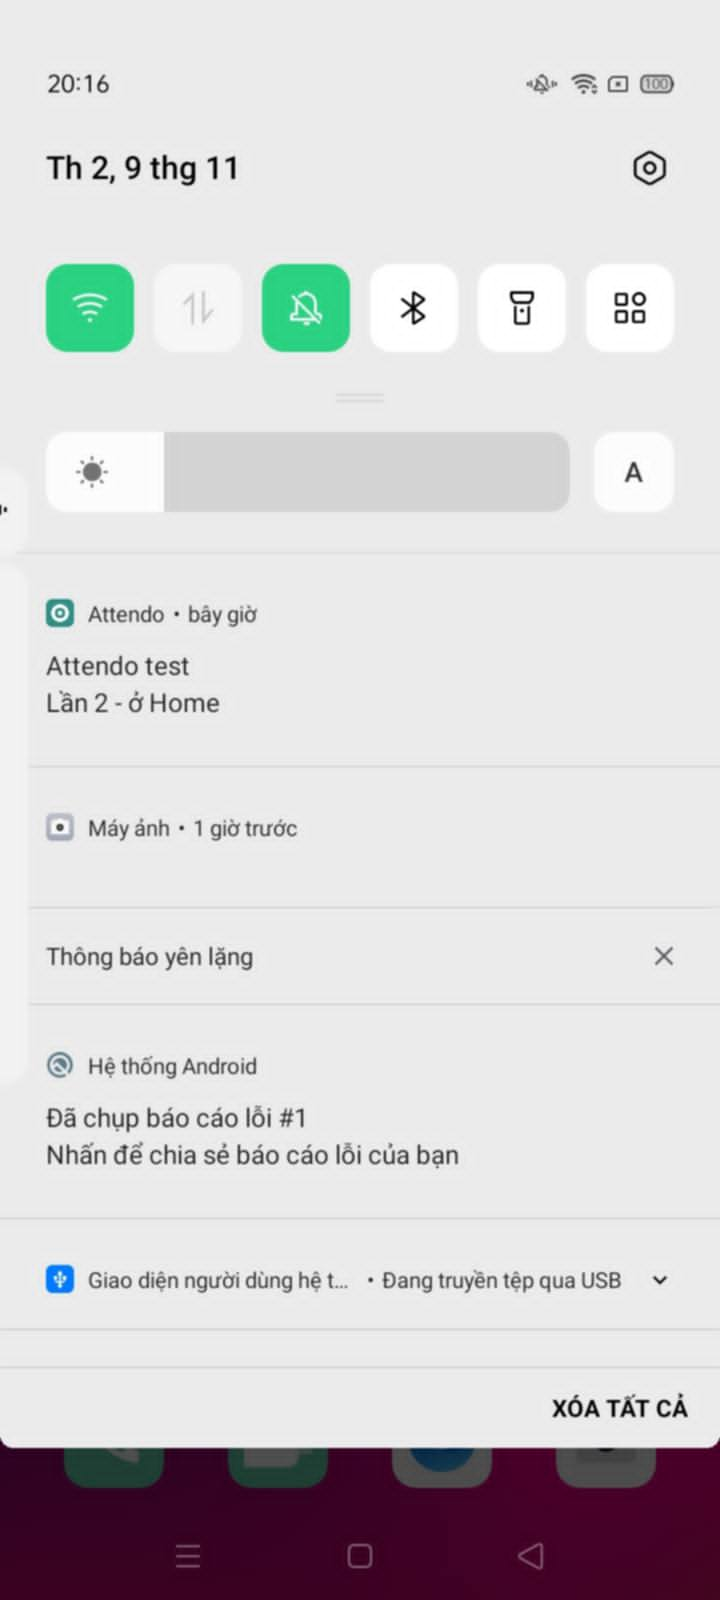
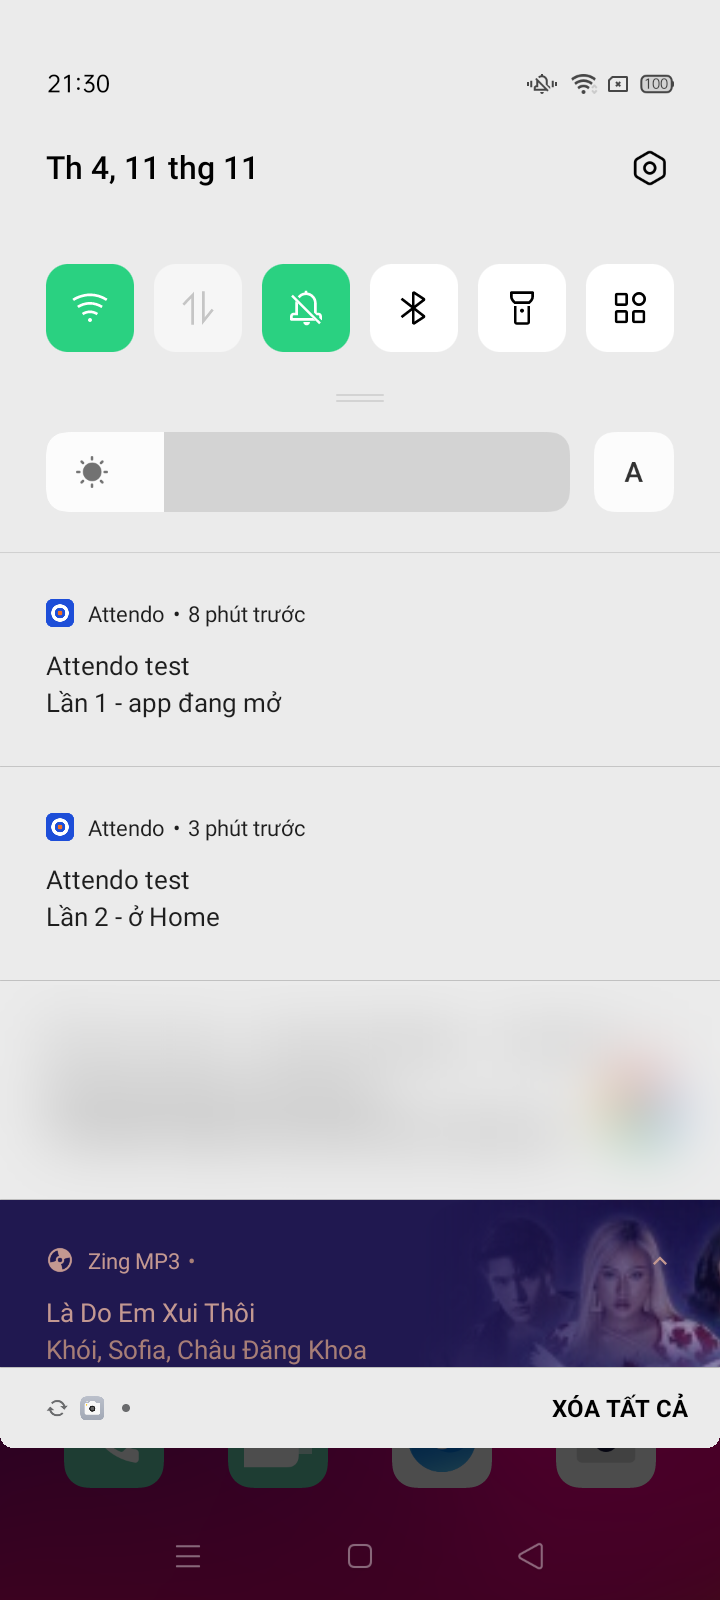
slides: use the recaptured cobalt FCM shots
Claude-Session: https://claude.ai/code/session_01LiS5XmjWDKcUN5uBfPDZk5

diff --git a/slides/src/proofs.js b/slides/src/proofs.js
@@ -14,7 +14,7 @@
     t1: { k: 'Test tay · Firebase thật', t: 'T1 điểm danh trọn một buổi', d: 'thien chạy 09/11 19:00 đến 19:25: TV, quét QR bằng iPhone, extension điền FAP giả 25/35 khớp app và chặn sai ngày.', img: 'assets/img/ev/ext-02.png', href: blob('evidence/extension/README.md') },
     extFill: { k: 'Test tay · Firebase thật', t: 'Extension điền 25 có mặt, 10 vắng', d: 'Bản nháp khớp Môn, Lớp, Ngày, Slot, Phòng; trang FAP giả 25 present · 10 absent.', img: 'assets/img/ev/ext-02.png', href: blob('evidence/extension/02-dien-25-co-mat.png') },
     extBlock: { k: 'Test tay · Firebase thật', t: 'Extension chặn sai ngày', d: 'Trang FAP là PRN221 SE1810 ngày 09/11, nguồn là slot 04/11: báo "Ngày không khớp", không điền.', img: 'assets/img/ev/ext-03.png', href: blob('evidence/extension/03-chan-sai-ngay.png') },
-    fcm3: { k: 'Test tay · FCM', t: 'Nhận thông báo ở cả 3 trạng thái app', d: 'Điện thoại Oppo, 09/11 20:15 đến 20:20: đang mở, ở nền, đã tắt. Gửi bằng Send test message trên console.', img: 'assets/img/ev/fcm-04.png', href: blob('evidence/fcm/README.md') },
+    fcm3: { k: 'Test tay · FCM', t: 'Nhận thông báo ở cả 3 trạng thái app', d: 'Điện thoại Oppo, 11/11 21:21 đến 21:35: đang mở, ở nền, đã tắt. Gửi bằng tool/fcm/send.mjs qua workflow Demo: gửi FCM thử.', img: 'assets/img/ev/fcm-04.png', href: blob('evidence/fcm/README.md') },
     crash: { k: 'Test tay · Crashlytics', t: 'Test crash lên console và web admin', d: '09/11 20:25 lỗi non-fatal, 20:26 Test crash: web admin Sự cố hiện ngay; Crashlytics console có 2 crash ngày 09/11.', img: 'assets/img/ev/crash-03.png', href: blob('evidence/crashlytics/README.md') },
     crashWeb: { k: 'Test tay · web admin', t: 'Màn Sự cố nhận bản tóm tắt ngay', d: 'Hai dòng Lỗi non-fatal và Test crash, vai trò Giảng viên, nền tảng android.', img: 'assets/img/ev/crash-02.png', href: blob('evidence/crashlytics/02-web-admin-test-crash.png') },
     dash98: { k: 'Firebase thật · Claude kiểm', t: 'Tổng quan admin: 4 lớp, 131 sinh viên, có mặt 98%', d: 'Sau khi sửa LOI-14 (chỉ mục tổng hợp sai thứ tự trường), 09/11 15:35. 2279 lượt có mặt, 47 vắng.', href: blob('docs/demo/loi.md') },
